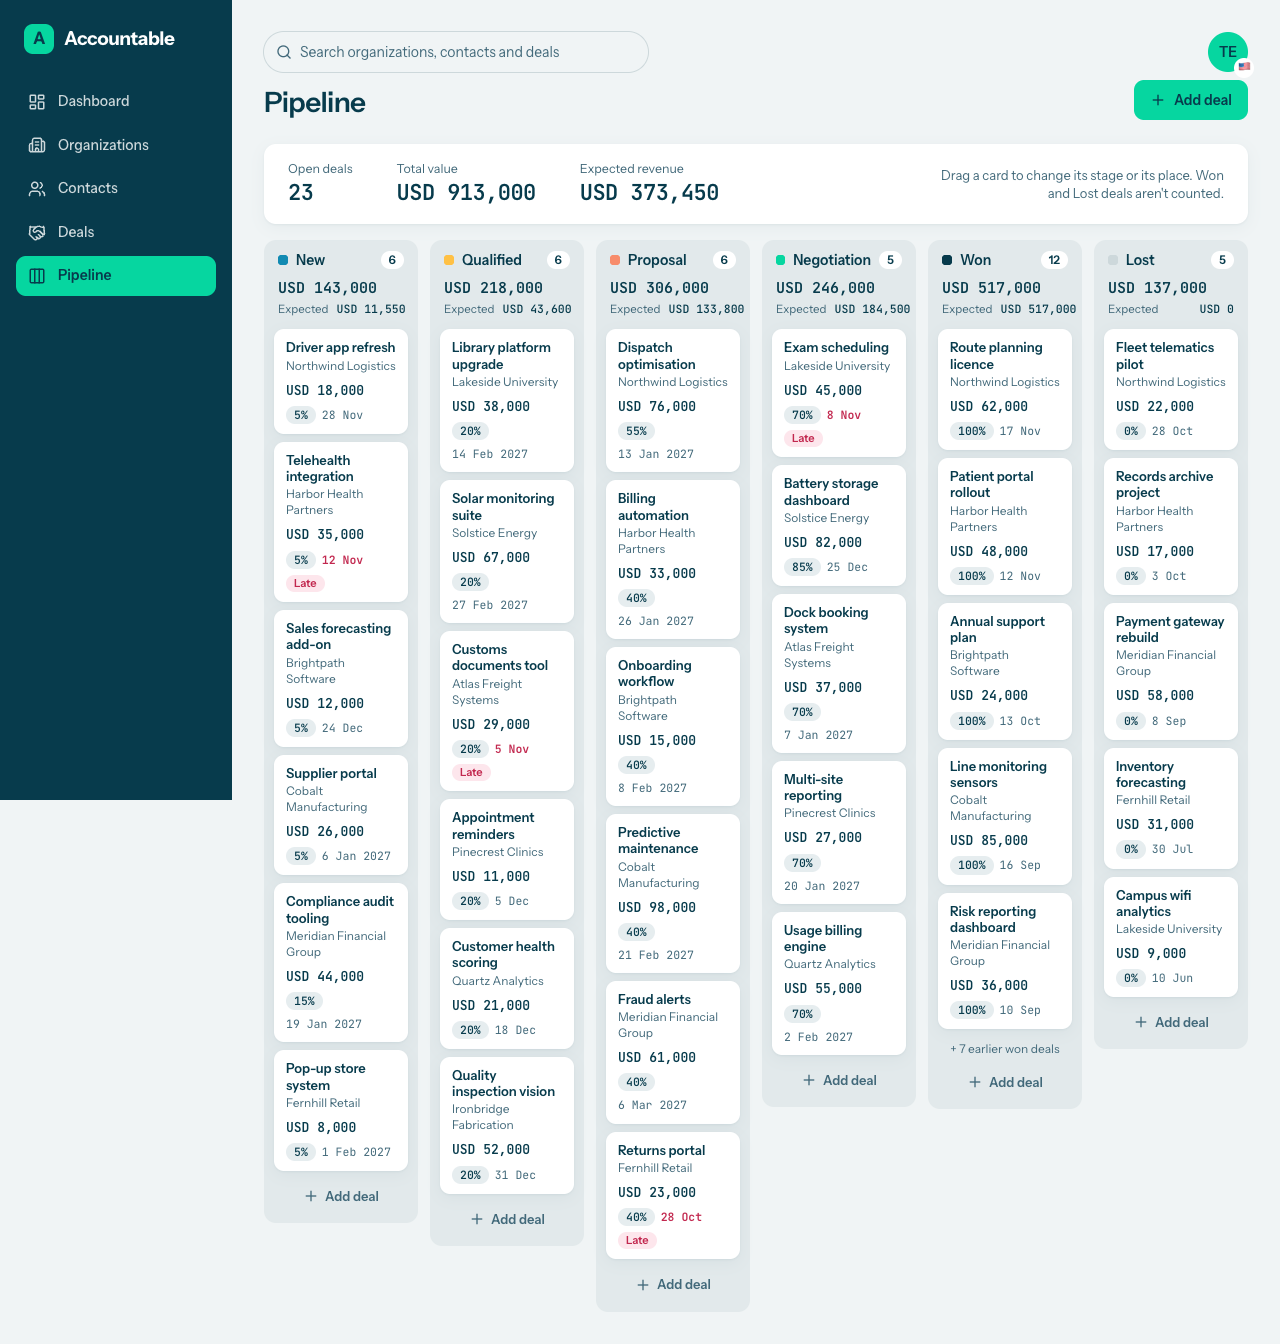
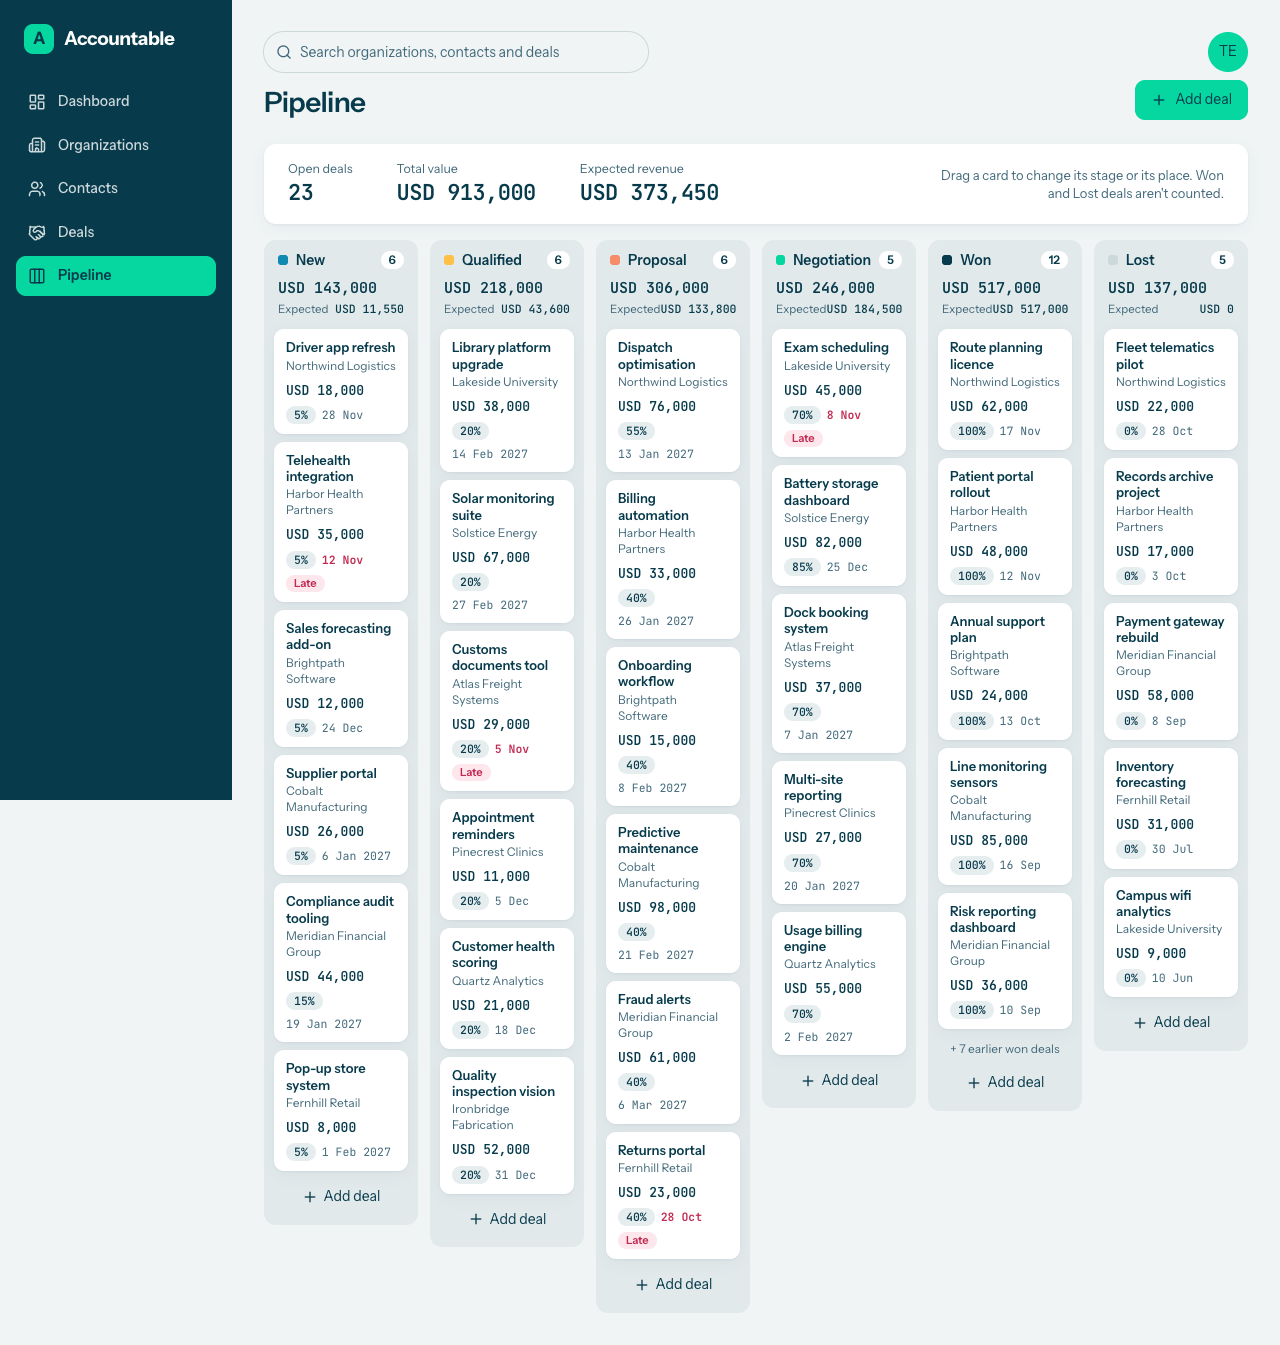
Fix: review findings for currency
- Axis ticks keep distinct labels when revenue is zero
- Revert unrelated dark-mode screenshots
- Correct AUD example in specs and plan
- Test figure tile font shrink and exact user menu items

diff --git a/frontend/src/pages/Dashboard.test.tsx b/frontend/src/pages/Dashboard.test.tsx
@@ -147,10 +147,10 @@ const data: DashboardData = {
 
 afterEach(() => vi.unstubAllGlobals());
 
-function renderDashboard() {
+function renderDashboard(body: DashboardData = data) {
   vi.stubGlobal(
     "fetch",
-    vi.fn(async () => new Response(JSON.stringify(data), { status: 200 })),
+    vi.fn(async () => new Response(JSON.stringify(body), { status: 200 })),
   );
   const qc = new QueryClient({ defaultOptions: { queries: { retry: false } } });
   return render(
@@ -179,6 +179,18 @@ describe("Dashboard", () => {
     expect(screen.getByText("2 deals won this month")).toBeInTheDocument();
     expect(screen.getByTestId("tile-overdue")).toHaveTextContent("3");
     expect(screen.getByText("Tuesday 17 November 2026")).toBeInTheDocument();
+  });
+
+  it("shrinks a long figure to keep it on one line", async () => {
+    setCurrency("AUD");
+    const big = {
+      ...data,
+      tiles: { ...data.tiles, open_pipeline_value: 5_000_000 },
+    };
+    renderDashboard(big);
+    const long = await screen.findByTestId("tile-pipeline");
+    expect(long).toHaveClass("text-[22px]");
+    expect(screen.getByTestId("tile-won")).toHaveClass("text-[26px]");
   });
 
   it("shows one block per open stage and one row per funnel stage", async () => {
@@ -269,7 +281,12 @@ describe("axis ticks", () => {
     }
   });
 
-  it("copes with no revenue", () => {
-    expect(axisTicks(0).length).toBeGreaterThan(1);
+  it("copes with no revenue, with distinct labels in both currencies", () => {
+    for (const code of ["USD", "AUD"] as const) {
+      setCurrency(code);
+      const labels = axisTicks(0).map(moneyCompact);
+      expect(labels.length).toBeGreaterThan(1);
+      expect(new Set(labels).size).toBe(labels.length);
+    }
   });
 });

diff --git a/frontend/src/components/UserMenu.test.tsx b/frontend/src/components/UserMenu.test.tsx
@@ -46,9 +46,15 @@ describe("UserMenu", () => {
     const user = setup();
     await user.click(trigger());
     expect(screen.getByText("ada@example.com")).toBeVisible();
-    const items = ["Light", "Dark", "System"].map((name) =>
-      screen.getByRole("menuitemradio", { name }),
-    );
+    const all = screen.getAllByRole("menuitemradio");
+    expect(all.map((i) => i.textContent)).toEqual([
+      "Light",
+      "Dark",
+      "System",
+      "🇺🇸US dollar",
+      "🇦🇺Australian dollar",
+    ]);
+    const items = all.slice(0, 3);
     expect(items.map((i) => i.getAttribute("aria-checked"))).toEqual([
       "false",
       "false",

diff --git a/frontend/src/pages/dashboard/Charts.tsx b/frontend/src/pages/dashboard/Charts.tsx
@@ -31,7 +31,7 @@ export function chartData(monthly: Month[]) {
 
 /** Round steps (1, 2, 5, 10 times a power of ten) in the displayed currency, as stored USD. */
 export function axisTicks(maxUsd: number): number[] {
-  const top = Math.max(convert(maxUsd), 1);
+  const top = Math.max(convert(maxUsd), 4);
   const power = 10 ** Math.floor(Math.log10(top / 4));
   const ratio = top / 4 / power;
   const step = ([1, 2, 5, 10].find((m) => m >= ratio) ?? 10) * power;

diff --git a/docs/STATUS.md b/docs/STATUS.md
@@ -27,7 +27,7 @@ The MVP is built, phases 0 to 8 of `docs/changes/mvp/plan.md`. The multi-user ch
 
 - **Multi-user, review fixes**: the branch review (`reviewer` subagent) found one Important and four nits, all fixed except one. The test sign-in client is now lazy-imported, so its test password stays out of the production bundle. The search query is capped at 100 characters. A project ref that had been committed in the course instructions is removed (it is still in git history), and out-of-scope changes (the dark-mode screenshots, an unfinished block in `week1day5.md`) are reverted. Left as is: the `onKeyDown` on search options looks unused, but the `jsx-a11y/click-events-have-key-events` rule requires it. The plan's Proof line "two people editing the same record" has no test of exactly that name; `test_edit_changes_updated_by_and_not_created_by` covers most of it. The independent review (`docs/INDEPENDENT_REVIEW.md`) found that moving or deleting a contact cleared its deals' main contact without setting `updated_by`. Both now record the acting user (`clear_deal_contact` in `common.py`), with two tests in `test_authorship.py`, which also covers the plan's "two people editing" Proof line.
 
-- **Currency switch** (`docs/changes/currency/`): the user menu has a Currency group, **US dollar** and **Australian dollar** with flags, and the initials button shows the current flag as a badge (drawn by CSS from `data-flag`, so the button's text stays the initials; its name stays "User menu" and its `title` names the currency). The choice is kept in local storage and read once in `lib/currency.ts`, so a reload never shows US dollars first. `money()` and `moneyCompact()` convert with one fixed rate (`USD_TO_AUD = 1.52`, dated `RATE_DATE`) and show `AUD 72,960`; no call site changed. `Shell.tsx` keys the page on the currency so every amount is formatted again, and the dashboard tile label and the revenue chart's axis title follow the code. Stored values and the deal form ("Value (USD)") stay in USD. Tests: `currency.test.ts`, AUD cases in `format.test.ts` (with a guard that no component hard-codes `"USD "`), `UserMenu.test.tsx` and `Dashboard.test.tsx` in Vitest (272 frontend tests in all), and `e2e/currency.spec.ts` plus the menu line in `e2e/menu.spec.ts` (72 end-to-end tests in all, every earlier one unchanged). Screenshots of the dashboard and pipeline in both currencies are in `docs/changes/currency/`. **ui-check fixes**: the revenue chart's axis now uses round steps in the displayed currency (`axisTicks` in `Charts.tsx`, with `unconvert` in `currency.ts`), so AUD labels are whole ("AUD 100k", not "AUD 98.8k"); long dashboard tile figures shrink to stay on one line; money cells in tables and the funnel's lost amount no longer wrap; the pipeline column's "Expected" has a gap before its amount. Still to do: a person's by-eye pass through all five sections in AUD.
+- **Currency switch** (`docs/changes/currency/`): the user menu has a Currency group, **US dollar** and **Australian dollar** with flags, and the initials button shows the current flag as a badge (drawn by CSS from `data-flag`, so the button's text stays the initials; its name stays "User menu" and its `title` names the currency). The choice is kept in local storage and read once in `lib/currency.ts`, so a reload never shows US dollars first. `money()` and `moneyCompact()` convert with one fixed rate (`USD_TO_AUD = 1.52`, dated `RATE_DATE`) and show `AUD 72,960`; no call site changed. `Shell.tsx` keys the page on the currency so every amount is formatted again, and the dashboard tile label and the revenue chart's axis title follow the code. Stored values and the deal form ("Value (USD)") stay in USD. Tests: `currency.test.ts`, AUD cases in `format.test.ts` (with a guard that no component hard-codes `"USD "`), `UserMenu.test.tsx` and `Dashboard.test.tsx` in Vitest (272 frontend tests in all), and `e2e/currency.spec.ts` plus the menu line in `e2e/menu.spec.ts` (72 end-to-end tests in all, every earlier one unchanged). Screenshots of the dashboard and pipeline in both currencies are in `docs/changes/currency/`. **ui-check fixes**: the revenue chart's axis now uses round steps in the displayed currency (`axisTicks` in `Charts.tsx`, with `unconvert` in `currency.ts`), so AUD labels are whole ("AUD 100k", not "AUD 98.8k"); long dashboard tile figures shrink to stay on one line; money cells in tables and the funnel's lost amount no longer wrap; the pipeline column's "Expected" has a gap before its amount. **Review fixes**: the `reviewer` subagent found two Important issues and four nits. The revenue axis now has distinct labels when revenue is zero (a floor of 4 in the displayed currency, tested in both). The unrelated `dark-mode` screenshots are reverted; the e2e run rewrites them each time, so revert them before committing. The AUD example is `AUD 72,960` everywhere, the figure tile shrink and the exact user menu items are tested. Left as is: `RATE_DATE`, which the plan asks for. Still to do: a person's by-eye pass through all five sections in AUD.
 
 ## How to run
 

diff --git a/docs/changes/currency/plan.md b/docs/changes/currency/plan.md
@@ -20,7 +20,7 @@ Each phase ends with something that runs, with its tests passing and an update t
 | File                                          | What changes                                                                                                                                                                                                                             |
 | --------------------------------------------- | ---------------------------------------------------------------------------------------------------------------------------------------------------------------------------------------------------------------------------------------- |
 | `src/lib/currency.ts`                         | New. The `Currency` type, the `CURRENCIES` list with code, name and flag, `USD_TO_AUD` and `RATE_DATE`, `readCurrency`, `getCurrency`, `setCurrency` (stores it, tells subscribers), `subscribe`, `convert`, and the `useCurrency` hook. |
-| `src/lib/format.ts`                           | `money` and `moneyCompact` convert and use the current code. `money` returns `AUD 73,000` and `moneyCompact` `AUD 76k`.                                                                                                                  |
+| `src/lib/format.ts`                           | `money` and `moneyCompact` convert and use the current code. `money` returns `AUD 72,960` and `moneyCompact` `AUD 76k`.                                                                                                                  |
 | `src/components/UserMenu.tsx`                 | A "Currency" radio group between the theme group and Sign out, with a separator and a small muted label, and the flag badge on the initials button. The button's name stays "User menu"; its `title` names the currency (see Risks).     |
 | `src/components/Shell.tsx`                    | Subscribes to the currency and uses it as the `key` of the page area.                                                                                                                                                                    |
 | `src/pages/dashboard/FigureTiles.tsx`         | The small code label above the number works for any code, not only `USD `.                                                                                                                                                               |

diff --git a/docs/specs/platform.md b/docs/specs/platform.md
@@ -39,7 +39,7 @@ Postgres on Supabase, reached through `DATABASE_URL`. The tests use their own SQ
 
 ### Other rules
 
-**Other rules.** A contact's organization is optional, because a new lead often has no company yet; a deal always has one. A deal's contact must work at the deal's organization, so the pipeline and the contact pages never disagree. Money reads `USD 48,000` in US dollars, the default, and `AUD 73,000` when the person has chosen Australian dollars (`docs/specs/currency.md`), and compact on chart axes, such as `USD 50k`. Stored values are always whole USD.
+**Other rules.** A contact's organization is optional, because a new lead often has no company yet; a deal always has one. A deal's contact must work at the deal's organization, so the pipeline and the contact pages never disagree. Money reads `USD 48,000` in US dollars, the default, and `AUD 72,960` when the person has chosen Australian dollars (`docs/specs/currency.md`), and compact on chart axes, such as `USD 50k`. Stored values are always whole USD.
 
 ## API
 

diff --git a/docs/specs/currency.md b/docs/specs/currency.md
@@ -15,7 +15,7 @@ Part of the Accountable spec. The index is in `docs/spec.md`. The menu it lives 
 ## Formats
 
 - US dollar: `USD 48,000`, compact `USD 50k`, as before.
-- Australian dollar: `AUD 73,000`, compact `AUD 76k`. The same shapes with `AUD` in place of `USD`, so the code is always in the text and a flag is never the only signal.
+- Australian dollar: `AUD 72,960`, compact `AUD 76k`. The same shapes with `AUD` in place of `USD`, so the code is always in the text and a flag is never the only signal.
 - Negative amounts keep their minus sign in front, as before.
 
 ## Design
